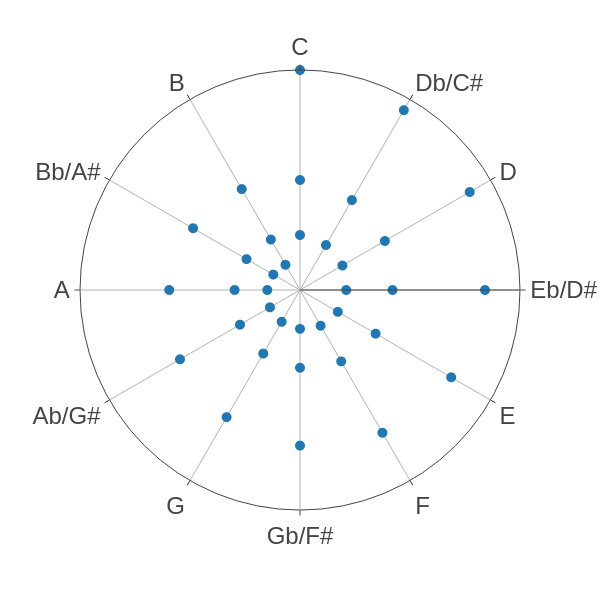
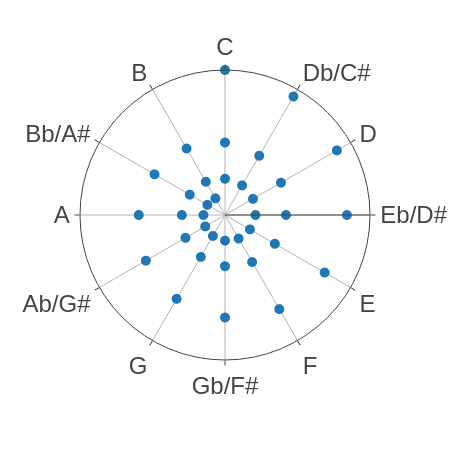
Update CONTRIBUTING.md and README.md (#9)

diff --git a/demos/create_readme_figures.py b/demos/create_readme_figures.py
@@ -1,0 +1,21 @@
+"""Create the figures for the repo README"""
+
+import semitone as st
+
+
+def adjust_figure(figure):
+    figure.update_layout(showlegend=False)
+    figure.update_layout(font=dict(size=24))
+    figure.update_traces(marker_size=10)
+    figure.update_layout(width=450, height=450)
+
+
+scale = st.Chromatic("C").extend(0, 2)
+fig = st.SpiralPlot.draw((scale,))
+adjust_figure(fig)
+fig.write_image("chrom_c.png")
+
+scale = st.HarmonicOctave("C", 19)
+fig = st.SpiralPlot.draw((scale,))
+adjust_figure(fig)
+fig.write_image("harm_c.png")

diff --git a/README.md b/README.md
@@ -13,10 +13,10 @@ pip install semitone
 ```
 
 Analyze scales:
-```py
+```python
 import semitone as st
 
-scale = st.Major("A")
+scale = st.Major("C")
 
 # Compute frequencies
 print(scale)
@@ -27,20 +27,24 @@ fig = st.SpiralPlot.draw((scale,))
 fig.show()
 
 # Visualize equal- vs just-tempered scales together
-scale_harm = st.HarmonicSeries("A", max_multiplier=13)
+scale_harm = st.HarmonicOctave("C", max_multiplier=19)
 fig = st.SpiralPlot.draw((scale, scale_harm))
 fig.show()
 ```
 
 
-### Music and Geometry?
+### Music and Geometry
 Each tone is represented as a point on a logarithmic spiral, with its radius
 scaling with wavelength (higher tones closer to the center), and its angle
 scaling with its progress around the full octave (semitone raises in pitch are
 30 deg clockwise rotations).
 
-For example, three octaves of the chromatic scale in C:
-![](https://raw.githubusercontent.com/mbdeaton/semitone/refs/heads/main/img/chrom_c.png)
+For example, three octaves of the equal-tempered chromatic scale in C:
+![Log spiral Cchromatic C](https://raw.githubusercontent.com/mbdeaton/semitone/refs/heads/main/img/chrom_c.png)
+
+And a just-tempered scale using the first 19 harmonics compressed to a single
+octave in C (redundant tones of the same pitch class are eliminated):
+![Log spiral harmonic-19 C](https://raw.githubusercontent.com/mbdeaton/semitone/refs/heads/main/img/harm_c.png)
 
 
 ### Contributing

diff --git a/CONTRIBUTING.md b/CONTRIBUTING.md
@@ -27,6 +27,11 @@ $ python -m unittest -v testname # play one test
 **Continuous Integration**: We use GitHub Actions to automatically run tests
 and style checks/linting on every push and pull request to the `main` branch.
 
+**Publishing**: A GitHub Action publishes to PyPI whenever we push a new
+version tag to main. If that fails, however, we can publish manually via
+`poetry build; poetry publish`. Manual publication requires the dev to
+have configured poetry with a PyPI API token.
+
 **Dependency Management**: We use poetry. Some common gestures:
 
 ```bash
